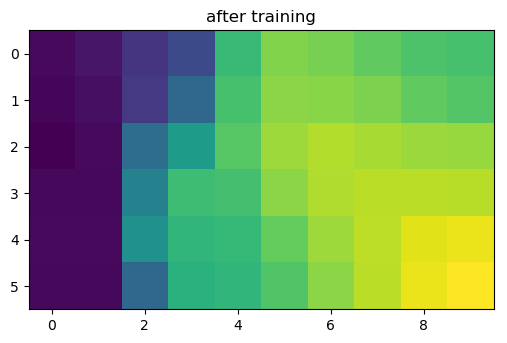
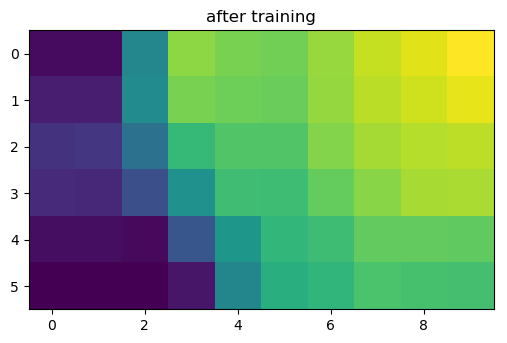
optimized version

diff --git a/som.c b/som.c
@@ -241,7 +241,7 @@ void print_network(net_t config){
     }
 }
 
-int calculate_nb_nhd(int nb_node){
+int calculate_nhd_radius(int nb_node){
     nb_node = (int)(nb_node * NHD_COEF);
     int nhd = NHD, count = 0, sum = 0;
     while((sum += nhd * count) + 1 < nb_node)count++;
@@ -260,7 +260,7 @@ void network_config(net_t * config, vec_t * vecs){
     config->alpha = ALFHA_INIT;
     // 50% of nb_node => nb_node * 0.5 => 60 * 0.5 = 30
     // 8*n+1 => (8*0) + (8*1) + (8*2) + (8*3) + 1 = 49 (49>30) => n=3
-    config->nb_nhd = calculate_nb_nhd(config->nb_node);
+    config->nhd_radius = calculate_nhd_radius(config->nb_node);
     init_network(config, vecs);
     config->bmu = NULL;
 }
@@ -299,19 +299,19 @@ void find_best_matching_unit(vec_t vec, net_t * net){
     }
 }
 
-void alter_weight_nhd(vec_t vec, net_t * net, bmu_t bmu, int iter, int nhd_dist){
+void alter_weight_nhd(vec_t vec, net_t * net, bmu_t bmu, int iter, int nhd_radius){
     int x,y, row, column;
     double alpha;
-    for(x = -nhd_dist; x <= nhd_dist; x++){
-        for(y = -nhd_dist; y <= nhd_dist; y++){
+    if(iter > net->nb_iter/FIRST_STAGE_DIV)
+        alpha = net->alpha/SECOND_STAGE_DIV;
+    else
+        alpha = net->alpha;
+    alpha = alpha * (1 - iter / net->nb_iter);
+    for(x = -nhd_radius; x <= nhd_radius; x++){
+        for(y = -nhd_radius; y <= nhd_radius; y++){
             row = bmu.row + x;
             column = bmu.column + y;
             if(row >= 0 && row < net->nb_row && column >= 0 && column < net->nb_column){
-                if(iter > net->nb_iter/FIRST_STAGE_DIV)
-                    alpha = net->alpha/SECOND_STAGE_DIV;
-                else
-                    alpha = net->alpha;
-                alpha = alpha * (1 - iter / net->nb_iter);
                 double * weight;
                 weight = net->map[row * net->nb_column + column].w;
                 int i;
@@ -324,21 +324,23 @@ void alter_weight_nhd(vec_t vec, net_t * net, bmu_t bmu, int iter, int nhd_dist)
 }
 
 void training_network(vec_t * vecs, int * shuf_vec, net_t * net, int nb_vecs){
-    int iter, nhd_dist;
+    int iter, nhd_radius, first_stage_iter, first_stage_iter_div;
     vec_t vec;
     bmu_t bmu;
+    first_stage_iter = net->nb_iter/FIRST_STAGE_DIV;
+    first_stage_iter_div = first_stage_iter/net->nhd_radius;
     for(iter = 0; iter < net->nb_iter; iter++){
         if(iter % nb_vecs == 0) shuffle_vector(shuf_vec, nb_vecs);
         vec = vecs[shuf_vec[iter%nb_vecs]];
         find_best_matching_unit(vec, net);
         bmu = get_bmu(net);
 
-        if(iter <= net->nb_iter/FIRST_STAGE_DIV){
-            nhd_dist = (int)(net->nb_nhd - iter/((net->nb_iter/FIRST_STAGE_DIV)/net->nb_nhd));
-            if(!nhd_dist) nhd_dist = 1;
+        if(iter <= first_stage_iter){
+            nhd_radius = (int)(net->nhd_radius - iter/first_stage_iter_div);
+            if(!nhd_radius) nhd_radius = 1;
         }else
-            nhd_dist = 1;
-        alter_weight_nhd(vec, net, bmu, iter, nhd_dist);
+            nhd_radius = 1;
+        alter_weight_nhd(vec, net, bmu, iter, nhd_radius);
     }
 }
 

diff --git a/som.h b/som.h
@@ -43,7 +43,7 @@ typedef struct net{
     int nb_column;
     int nb_iter;
     double alpha;
-    int nb_nhd; //neighborhood
+    int nhd_radius; //neighborhood
     int vec_size;
     node_t * map;
     bmu_t * bmu; // best matching unit
